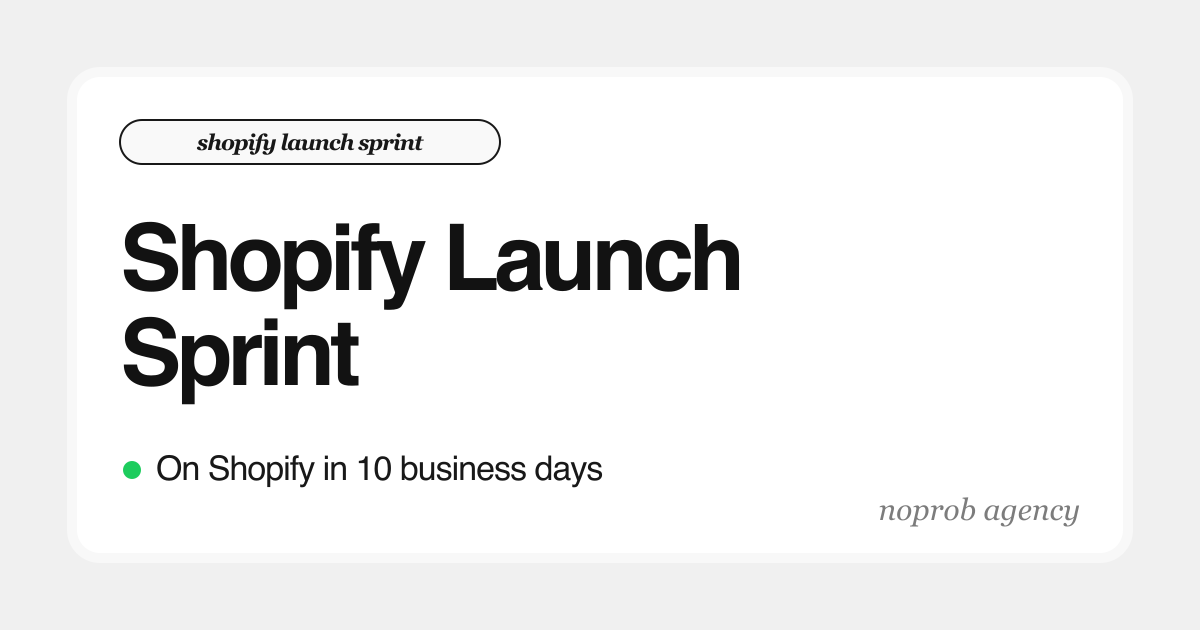
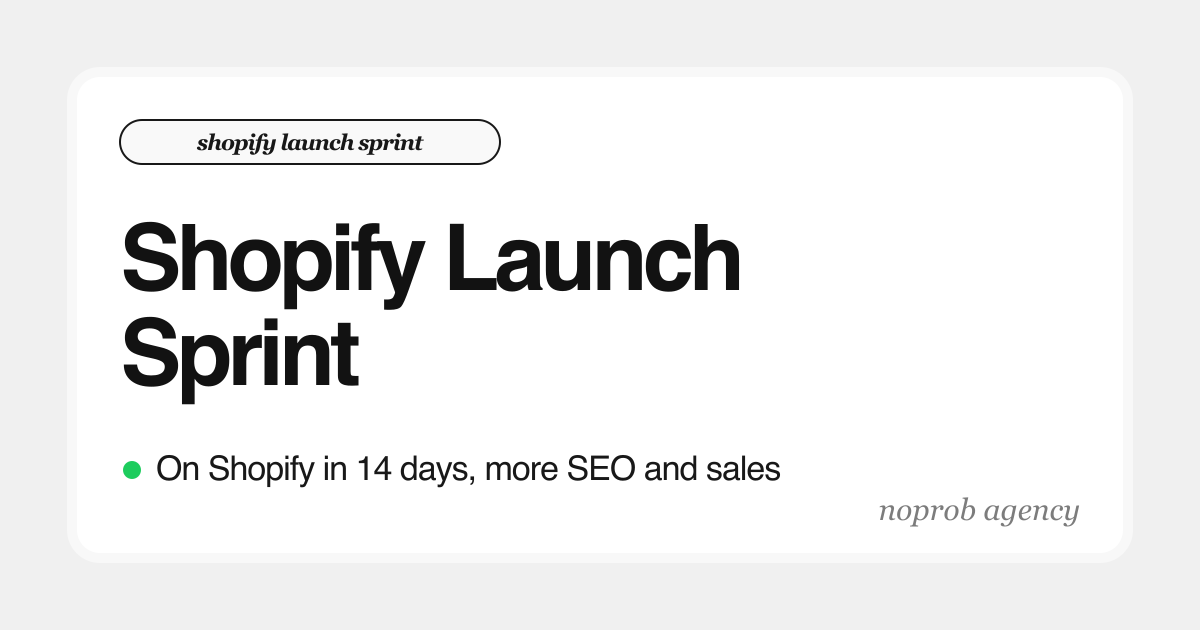
feat(zero-loss): 14 days everywhere and a stronger promise (higher on Google, more sales)
- 10 working days -> 14 days on the whole landing (IT + EN): delivery on day 14, go live
  from day 15 to 30, guarantees, FAQ, calendar, meta, OG images
- H1 'Il tuo eCommerce su Shopify in 14 giorni. Più posizioni su Google, più vendite.',
  hero, overview, results and closing CTA rewritten around the Nazzi and Cumini results
- version v0.90.0

Changed region(s): [[0.3083, 0.7238, 0.6475, 0.7841]]

diff --git a/content/zero-loss-migration.it.ts b/content/zero-loss-migration.it.ts
@@ -10,10 +10,10 @@ import { ZL_SOURCES } from './zero-loss-migration.shared'
 
 export const zeroLossIt: ZlCopy = {
   meta: {
-    title: 'Shopify Launch Sprint: il tuo eCommerce su Shopify in 10 giorni lavorativi | noprob agency',
+    title: 'Shopify Launch Sprint: su Shopify in 14 giorni, più SEO e più vendite | noprob agency',
     description:
-      'Il tuo eCommerce replicato 1:1 su Shopify in 10 giorni lavorativi, con le stesse posizioni su Google. Dati riconciliati, redirect testati, tracking server-side, 90 giorni di supporto e 4 garanzie. Prezzo fisso e pubblico.',
-    ogAlt: 'Shopify Launch Sprint: il tuo eCommerce su Shopify in 10 giorni lavorativi',
+      'Il tuo eCommerce su Shopify in 14 giorni, con più posizioni su Google e più vendite: +105% per Integratori Nazzi DTC, +67,7% per Cumini. Redirect testati, tracking server-side, 90 giorni di supporto, 4 garanzie, prezzo fisso.',
+    ogAlt: 'Shopify Launch Sprint: il tuo eCommerce su Shopify in 14 giorni, più SEO e più vendite',
   },
   nav: {
     cta: 'Candidati allo sprint',
@@ -22,9 +22,9 @@ export const zeroLossIt: ZlCopy = {
   },
   hero: {
     eyebrow: 'Shopify Launch Sprint',
-    h1: 'Il tuo eCommerce su Shopify in 10 giorni lavorativi, con le stesse posizioni su Google.',
+    h1: 'Il tuo eCommerce su Shopify in 14 giorni. Più posizioni su Google, più vendite.',
     paragraph:
-      "Replichiamo il tuo store 1:1 su Shopify: dati riconciliati, redirect testati uno per uno, tracking server-side e checkout più corto. Vai live nel giorno che scegli tu, con 90 giorni di supporto. Prezzo fisso e pubblico, 4 garanzie misurabili, oltre 10 migrazioni con 0 minuti offline.",
+      "Portiamo il tuo store su Shopify senza fermare le vendite e lo rendiamo più facile da trovare e da comprare. I risultati dei nostri ultimi clienti: +105% di vendite in 85 giorni per Integratori Nazzi DTC, +67,7% in 12 mesi per Cumini. Prezzo fisso, 4 garanzie, 0 minuti offline.",
     ctaPrimary: 'Candidati allo sprint',
     ctaNote: 'Rispondiamo in 48 ore',
     ctaSecondary: 'Guarda i risultati',
@@ -35,9 +35,9 @@ export const zeroLossIt: ZlCopy = {
   overview: {
     h2: 'Shopify Launch Sprint',
     paragraph:
-      "Dieci giorni lavorativi, un calendario fisso, un referente. Il lunedì ci dai gli accessi, il venerdì della settimana dopo hai lo store su Shopify pronto a pubblicare. Non è un redesign: è il tuo store, uguale, più veloce e senza bug, con il flusso d'acquisto ottimizzato per convertire di più.",
+      "Quattordici giorni, un calendario fisso, un referente. Il lunedì ci dai gli accessi, il venerdì della settimana dopo hai lo store su Shopify pronto a pubblicare. Non è un redesign: è il tuo store, più veloce, più forte su Google e con un checkout costruito per vendere di più.",
     cta: 'Candidati allo sprint',
-    deliverablesTitle: 'Cosa ottieni al giorno 10',
+    deliverablesTitle: 'Cosa ottieni al giorno 14',
     deliverables: [
       {
         title: 'Store Shopify pronto a pubblicare',
@@ -72,9 +72,9 @@ export const zeroLossIt: ZlCopy = {
     pricingNote:
       'Prima rata al kickoff, seconda al go-live, terza e quarta nei due mesi di supporto. Piano Shopify, tema e app a carico tuo. Nessuno sconto, nessun preventivo: questo è il prezzo.',
     results: [
+      { value: '+105% di vendite online nei primi 85 giorni su Shopify', attribution: 'Integratori Nazzi DTC' },
       { value: '+67,7% di vendite online nei 12 mesi dopo la migrazione', attribution: 'Cumini, luxury multibrand' },
-      { value: 'Clic da Google 2,7 volte quelli di un anno prima', attribution: 'Integratori Nazzi DTC, Search Console' },
-      { value: '+105% di vendite online nei primi 85 giorni dopo la migrazione da WooCommerce', attribution: 'Integratori Nazzi DTC' },
+      { value: 'Posizione media su Google da 9,0 a 7,1, clic 2,7 volte l’anno prima', attribution: 'Integratori Nazzi DTC, Search Console' },
       { value: '0 minuti offline in oltre 10 migrazioni', attribution: 'noprob agency' },
     ],
   },
@@ -131,7 +131,7 @@ export const zeroLossIt: ZlCopy = {
       {
         title: 'Go-live Checklist con la tua data',
         paragraph:
-          'DNS, TTL, sitemap, Search Console, monitor di uptime, piano di rollback. La firmi tu con la data che scegli, dal giorno 11 al 30. Il giorno del lancio il tuo store non si ferma un secondo.',
+          'DNS, TTL, sitemap, Search Console, monitor di uptime, piano di rollback. La firmi tu con la data che scegli, dal giorno 15 al 30. Il giorno del lancio il tuo store non si ferma un secondo.',
         imageAlt: 'Go-live Checklist firmata con la data in evidenza',
         mockup: 'checklist',
       },
@@ -221,7 +221,7 @@ export const zeroLossIt: ZlCopy = {
       title: 'Dopo lo sprint',
       rows: [
         {
-          phase: 'Giorni 11-30',
+          phase: 'Giorni 15-30',
           title: 'Go-live, la data la scegli tu',
           detail: 'Cambio DNS, redirect attivi, sitemap e Search Console. Presidio 48 ore.',
         },
@@ -238,7 +238,7 @@ export const zeroLossIt: ZlCopy = {
     h2: 'Quattro garanzie, tutte misurabili',
     sub: 'Misurate dalla dashboard che ricevi il giorno 1, non da opinioni.',
     cards: [
-      { key: 'Sprint', text: 'Store pronto al giorno 10 o ti rimborsiamo la prima rata.' },
+      { key: 'Sprint', text: 'Store pronto al giorno 14 o ti rimborsiamo la prima rata.' },
       { key: 'SEO', text: 'Traffico organico sotto la baseline a 90 giorni dal go-live? Lavoriamo gratis finché non torna.' },
       { key: 'Go-live', text: 'Store offline al lancio per colpa nostra? Una rata la paghiamo noi.' },
       { key: 'Checkout', text: 'Il checkout converte meno di prima a 90 giorni? Lo ottimizziamo gratis finché non supera.' },
@@ -271,7 +271,7 @@ export const zeroLossIt: ZlCopy = {
       'Quando arrivano in Europa, chi è su Shopify li accende. Chi è su WooCommerce aspetta un plugin. Il costo della tua attesa, con i tuoi numeri, te lo mostriamo in call: velocità, tasso di checkout e scarto del tracking del tuo store contro la baseline dei nostri.',
   },
   proof: {
-    h2: 'Cosa succede dopo una migrazione fatta bene',
+    h2: 'Dopo la migrazione: più Google, più vendite',
     sub: 'Dati reali dei nostri clienti, con la fonte di ogni numero. Le cifre di fatturato restano loro: le vendite sono mostrate in indice.',
     charts: {
       caseLink: 'Leggi il caso studio',
@@ -364,7 +364,7 @@ export const zeroLossIt: ZlCopy = {
       {
         question: 'Il mio store resta online durante lo sprint?',
         answer:
-          'Sì. Lavoriamo in staging, il tuo sito attuale non viene toccato. Il go-live lo fai quando decidi tu, tra il giorno 11 e il 30.',
+          'Sì. Lavoriamo in staging, il tuo sito attuale non viene toccato. Il go-live lo fai quando decidi tu, tra il giorno 15 e il 30.',
       },
       {
         question: 'Perdo posizioni su Google?',
@@ -383,7 +383,7 @@ export const zeroLossIt: ZlCopy = {
       },
       {
         question: 'Cosa succede se non arrivano gli accessi in tempo?',
-        answer: 'Il kickoff slitta al lunedì successivo. Lo sprint parte solo quando può finire in 10 giorni.',
+        answer: 'Il kickoff slitta al lunedì successivo. Lo sprint parte solo quando può finire in 14 giorni.',
       },
       {
         question: 'Cosa succede se il mio store supera i limiti dello scaglione?',
@@ -398,7 +398,7 @@ export const zeroLossIt: ZlCopy = {
       {
         question: 'Come funzionano le garanzie?',
         answer:
-          'Sono quattro, misurate dalla dashboard: store pronto al giorno 10 o rimborso della prima rata; traffico organico sotto la baseline a 90 giorni e lavoriamo gratis finché non torna; store offline al lancio per colpa nostra e una rata la paghiamo noi; checkout che converte meno di prima a 90 giorni e lo ottimizziamo gratis finché non supera. Le condizioni stanno nel contratto, in una pagina.',
+          'Sono quattro, misurate dalla dashboard: store pronto al giorno 14 o rimborso della prima rata; traffico organico sotto la baseline a 90 giorni e lavoriamo gratis finché non torna; store offline al lancio per colpa nostra e una rata la paghiamo noi; checkout che converte meno di prima a 90 giorni e lo ottimizziamo gratis finché non supera. Le condizioni stanno nel contratto, in una pagina.',
       },
       {
         question: 'Cosa succede dopo i 90 giorni?',
@@ -418,10 +418,10 @@ export const zeroLossIt: ZlCopy = {
     ],
   },
   finalCta: {
-    h2: 'Candidati allo sprint',
+    h2: 'Il tuo store su Shopify fra 14 giorni. Candidati.',
     paragraph:
       'Ti rispondiamo entro 48 ore, anche se la risposta è no. Se sei dentro i criteri, la risposta è lo scaglione, il prezzo e il primo lunedì disponibile.',
-    bullets: ['Kickoff sempre di lunedì', 'Store pronto al giorno 10', '90 giorni di supporto inclusi'],
+    bullets: ['Kickoff sempre di lunedì', 'Store pronto al giorno 14', '90 giorni di supporto inclusi'],
     cta: 'Candidati allo sprint',
   },
   apply: {

diff --git a/content/zero-loss-migration.en.ts b/content/zero-loss-migration.en.ts
@@ -10,10 +10,10 @@ import { ZL_SOURCES } from './zero-loss-migration.shared'
 
 export const zeroLossEn: ZlCopy = {
   meta: {
-    title: 'Shopify Launch Sprint: your eCommerce on Shopify in 10 business days | noprob agency',
+    title: 'Shopify Launch Sprint: on Shopify in 14 days, more SEO and more sales | noprob agency',
     description:
-      'Your eCommerce replicated 1:1 on Shopify in 10 business days, with the same Google rankings. Reconciled data, tested redirects, server-side tracking, 90 days of support and 4 guarantees. Fixed, public pricing.',
-    ogAlt: 'Shopify Launch Sprint: your eCommerce on Shopify in 10 business days',
+      'Your eCommerce on Shopify in 14 days, with better Google rankings and more sales: +105% for Integratori Nazzi DTC, +67.7% for Cumini. Tested redirects, server-side tracking, 90 days of support, 4 guarantees, fixed price.',
+    ogAlt: 'Shopify Launch Sprint: your eCommerce on Shopify in 14 days, more SEO and more sales',
   },
   nav: {
     cta: 'Apply for the sprint',
@@ -22,9 +22,9 @@ export const zeroLossEn: ZlCopy = {
   },
   hero: {
     eyebrow: 'Shopify Launch Sprint',
-    h1: 'Your eCommerce on Shopify in 10 business days, with the same Google rankings.',
+    h1: 'Your eCommerce on Shopify in 14 days. Higher on Google, more sales.',
     paragraph:
-      'We replicate your store 1:1 on Shopify: reconciled data, every redirect tested, server-side tracking and a shorter checkout. Go live on the day you choose, with 90 days of support. Fixed, public pricing, 4 measurable guarantees, over 10 migrations with 0 minutes offline.',
+      'We move your store to Shopify without stopping sales and make it easier to find and to buy from. Our latest clients: +105% sales in 85 days for Integratori Nazzi DTC, +67.7% in 12 months for Cumini. Fixed price, 4 guarantees, 0 minutes offline.',
     ctaPrimary: 'Apply for the sprint',
     ctaNote: 'We reply within 48 hours',
     ctaSecondary: 'See the results',
@@ -35,9 +35,9 @@ export const zeroLossEn: ZlCopy = {
   overview: {
     h2: 'Shopify Launch Sprint',
     paragraph:
-      'Ten working days, a fixed calendar, one point of contact. On Monday you give us the accesses, on the Friday of the following week your store is on Shopify, ready to publish. It is not a redesign: it is your store, the same, faster and bug-free, with the purchase flow optimized to convert more.',
+      'Fourteen days, a fixed calendar, one point of contact. On Monday you give us the accesses, on the Friday of the following week your store is on Shopify, ready to publish. It is not a redesign: it is your store, faster, stronger on Google and with a checkout built to sell more.',
     cta: 'Apply for the sprint',
-    deliverablesTitle: 'What you get on day 10',
+    deliverablesTitle: 'What you get on day 14',
     deliverables: [
       {
         title: 'Shopify store ready to publish',
@@ -72,9 +72,9 @@ export const zeroLossEn: ZlCopy = {
     pricingNote:
       'First installment at kickoff, second at go-live, third and fourth during the two months of support. Shopify plan, theme and apps are on you. No discounts, no quotes: this is the price.',
     results: [
+      { value: '+105% online sales in the first 85 days on Shopify', attribution: 'Integratori Nazzi DTC' },
       { value: '+67.7% online sales in the 12 months after the migration', attribution: 'Cumini, luxury multibrand' },
-      { value: 'Google clicks 2.7 times those of a year earlier', attribution: 'Integratori Nazzi DTC, Search Console' },
-      { value: '+105% online sales in the first 85 days after the move from WooCommerce', attribution: 'Integratori Nazzi DTC' },
+      { value: 'Average Google position from 9.0 to 7.1, clicks 2.7 times the year before', attribution: 'Integratori Nazzi DTC, Search Console' },
       { value: '0 minutes offline across over 10 migrations', attribution: 'noprob agency' },
     ],
   },
@@ -131,7 +131,7 @@ export const zeroLossEn: ZlCopy = {
       {
         title: 'Go-live Checklist with your date',
         paragraph:
-          'DNS, TTL, sitemap, Search Console, uptime monitor, rollback plan. You sign it with the date you choose, from day 11 to day 30. On launch day your store does not stop for a second.',
+          'DNS, TTL, sitemap, Search Console, uptime monitor, rollback plan. You sign it with the date you choose, from day 15 to day 30. On launch day your store does not stop for a second.',
         imageAlt: 'Signed Go-live Checklist with the date highlighted',
         mockup: 'checklist',
       },
@@ -221,7 +221,7 @@ export const zeroLossEn: ZlCopy = {
       title: 'After the sprint',
       rows: [
         {
-          phase: 'Days 11-30',
+          phase: 'Days 15-30',
           title: 'Go-live, you pick the date',
           detail: 'DNS switch, redirects live, sitemap and Search Console. 48 hours on watch.',
         },
@@ -238,7 +238,7 @@ export const zeroLossEn: ZlCopy = {
     h2: 'Four guarantees, all measurable',
     sub: 'Measured by the dashboard you receive on day 1, not by opinions.',
     cards: [
-      { key: 'Sprint', text: 'Store ready on day 10 or we refund the first installment.' },
+      { key: 'Sprint', text: 'Store ready on day 14 or we refund the first installment.' },
       { key: 'SEO', text: 'Organic traffic below the baseline 90 days after go-live? We work for free until it comes back.' },
       { key: 'Go-live', text: 'Store offline at launch because of us? We pay one installment.' },
       { key: 'Checkout', text: 'Checkout converting less than before at 90 days? We optimize it for free until it beats it.' },
@@ -271,7 +271,7 @@ export const zeroLossEn: ZlCopy = {
       'When they arrive in Europe, whoever is on Shopify switches them on. Whoever is on WooCommerce waits for a plugin. The cost of your wait, with your numbers, we show you on a call: speed, checkout rate and tracking gap of your store against the baseline of ours.',
   },
   proof: {
-    h2: 'What happens after a migration done right',
+    h2: 'After the migration: higher on Google, more sales',
     sub: 'Real data from our clients, with the source of every number. Revenue figures stay theirs: sales are shown as an index.',
     charts: {
       caseLink: 'Read the case study',
@@ -364,7 +364,7 @@ export const zeroLossEn: ZlCopy = {
       {
         question: 'Does my store stay online during the sprint?',
         answer:
-          'Yes. We work in staging, your current site is not touched. You go live when you decide, between day 11 and day 30.',
+          'Yes. We work in staging, your current site is not touched. You go live when you decide, between day 15 and day 30.',
       },
       {
         question: 'Will I lose Google rankings?',
@@ -383,7 +383,7 @@ export const zeroLossEn: ZlCopy = {
       },
       {
         question: 'What happens if the accesses do not arrive in time?',
-        answer: 'The kickoff moves to the following Monday. The sprint starts only when it can finish in 10 days.',
+        answer: 'The kickoff moves to the following Monday. The sprint starts only when it can finish in 14 days.',
       },
       {
         question: 'What happens if my store exceeds the tier limits?',
@@ -398,7 +398,7 @@ export const zeroLossEn: ZlCopy = {
       {
         question: 'How do the guarantees work?',
         answer:
-          'There are four, measured by the dashboard: store ready on day 10 or refund of the first installment; organic traffic below the baseline at 90 days and we work for free until it comes back; store offline at launch because of us and we pay one installment; checkout converting less than before at 90 days and we optimize it for free until it beats it. The terms are in the contract, on one page.',
+          'There are four, measured by the dashboard: store ready on day 14 or refund of the first installment; organic traffic below the baseline at 90 days and we work for free until it comes back; store offline at launch because of us and we pay one installment; checkout converting less than before at 90 days and we optimize it for free until it beats it. The terms are in the contract, on one page.',
       },
       {
         question: 'What happens after the 90 days?',
@@ -418,10 +418,10 @@ export const zeroLossEn: ZlCopy = {
     ],
   },
   finalCta: {
-    h2: 'Apply for the sprint',
+    h2: 'Your store on Shopify in 14 days. Apply now.',
     paragraph:
       'We reply within 48 hours, even if the answer is no. If you meet the criteria, the answer is your tier, the price and the first available Monday.',
-    bullets: ['Kickoff always on a Monday', 'Store ready on day 10', '90 days of support included'],
+    bullets: ['Kickoff always on a Monday', 'Store ready on day 14', '90 days of support included'],
     cta: 'Apply for the sprint',
   },
   apply: {

diff --git a/lib/site.ts b/lib/site.ts
@@ -8,7 +8,7 @@ export const siteConfig = {
   name: 'noprob agency™',
   companyName: 'NOPROB AGENCY LLC',
   url: 'https://noprob.agency',
-  version: 'v0.89.0',
+  version: 'v0.90.0',
   ga4Id: 'G-JD0T1HWWWV',
   metaPixelId: '1174058738142037',
   defaultTitle: 'Your eCommerce Partner. From Build to Scale.',
